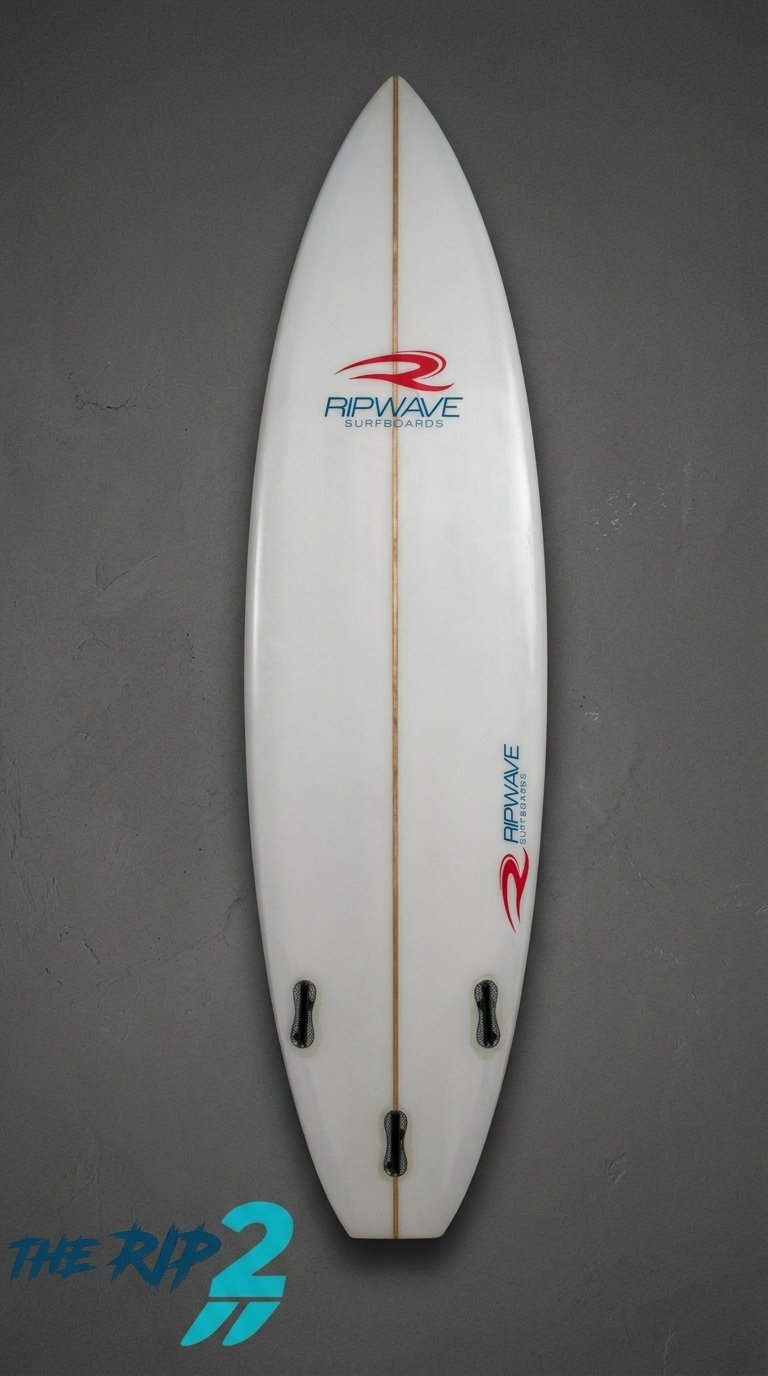
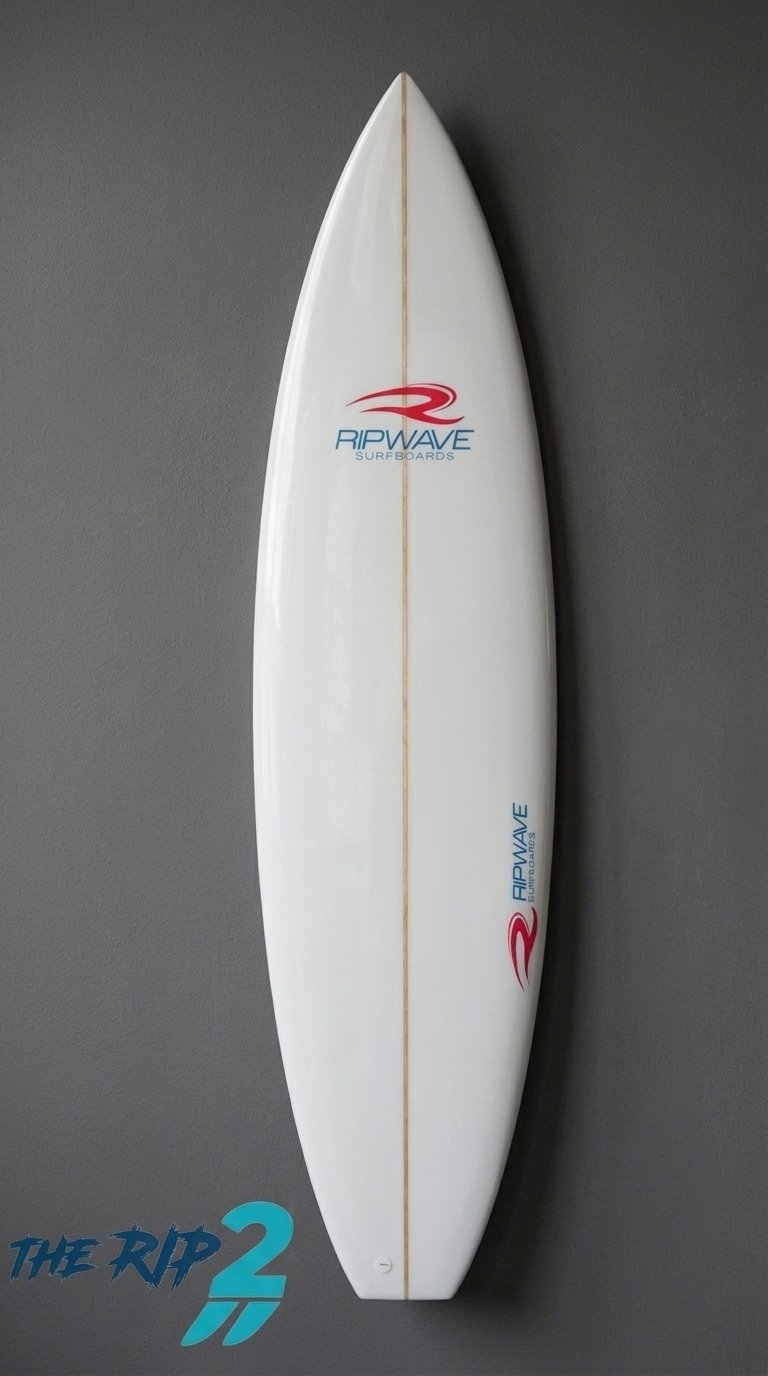
fix: standardize board card imagery

diff --git a/src/routes/pranchas/$categoria/index.tsx b/src/routes/pranchas/$categoria/index.tsx
@@ -65,15 +65,15 @@ function CategoryPage() {
                     className="card-lift group overflow-hidden bg-muted ring-1 ring-navy/10"
                   >
                     {cardImage ? (
-                      <div className="relative h-72 overflow-hidden bg-navy">
+                      <div className="relative h-72 overflow-hidden bg-[#e9eef1]">
                         <img
                           src={cardImage.src}
                           alt={cardImage.alt}
                           loading="lazy"
-                          className="h-full w-full object-cover transition-transform duration-700 group-hover:scale-105"
+                          className="h-full w-full object-contain transition-transform duration-700 group-hover:scale-[1.03]"
                         />
                         <div
-                          className="absolute inset-0 bg-gradient-to-t from-navy/70 via-transparent to-navy/10"
+                          className="absolute inset-x-0 bottom-0 h-1/3 bg-gradient-to-t from-navy/35 to-transparent"
                           aria-hidden
                         />
                         <span className="absolute top-6 left-6 font-display text-6xl text-sand/55">

diff --git a/src/components/ripwave/Boards.tsx b/src/components/ripwave/Boards.tsx
@@ -36,15 +36,15 @@ export function Boards() {
                   className="card-lift group flex h-full flex-col overflow-hidden bg-sand/5 ring-1 ring-sand/10 backdrop-blur-sm"
                 >
                   {cardImage ? (
-                    <div className="relative h-56 overflow-hidden bg-navy">
+                    <div className="relative h-56 overflow-hidden bg-[#e9eef1]">
                       <img
                         src={cardImage.src}
                         alt={cardImage.alt}
                         loading="lazy"
-                        className="h-full w-full object-cover transition-transform duration-700 group-hover:scale-105"
+                        className="h-full w-full object-contain transition-transform duration-700 group-hover:scale-[1.03]"
                       />
                       <div
-                        className="absolute inset-0 bg-gradient-to-t from-navy/50 via-transparent to-navy/10"
+                        className="absolute inset-x-0 bottom-0 h-1/3 bg-gradient-to-t from-navy/35 to-transparent"
                         aria-hidden
                       />
                     </div>

diff --git a/docs/model-image-audit.md b/docs/model-image-audit.md
@@ -43,3 +43,5 @@ Atualizado a partir de `modelos (1).rar` em 27/10/2026.
 - Alguns modelos completos têm uma quarta vista lateral já validada no catálogo. Ela é preservada e não faz parte da importação do pacote.
 - Para os 17 modelos identificados no arquivo, foi escolhida uma foto extra da própria pasta como capa do card. As demais imagens extras seguem excluídas do site.
 - Fotos técnicas de frente, lateral e costas não são usadas como capa de card.
+- As capas dos cards usam uma foto editorial completa da prancha, com encaixe por contenção para não haver recorte inconsistente.
+- Key Ring e Portable ainda não têm foto editorial isolada; usam a composição editorial identificada em suas respectivas pastas até a chegada de uma foto frontal individual.
